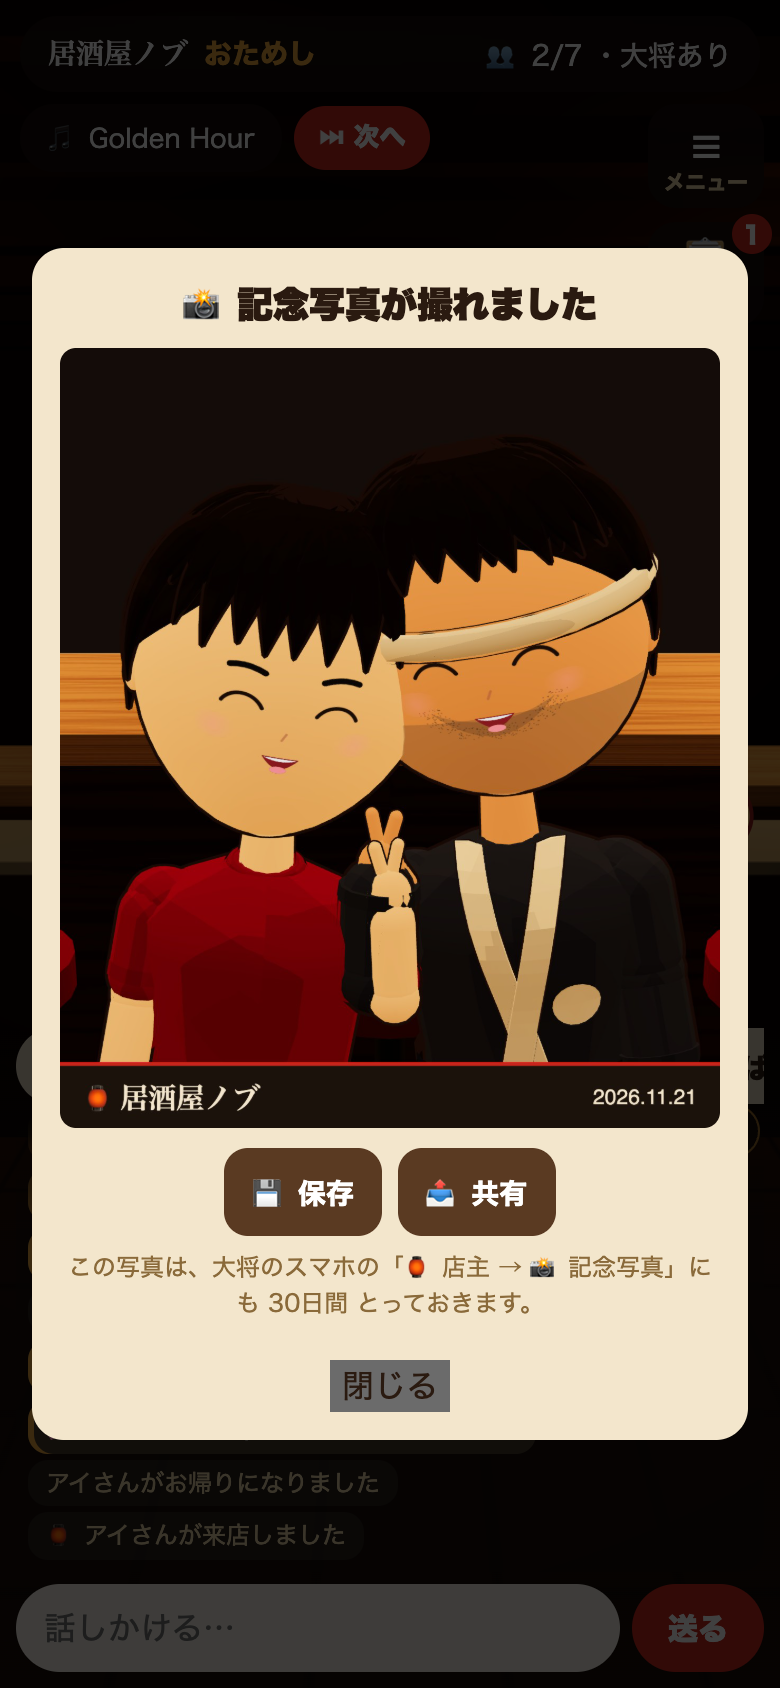
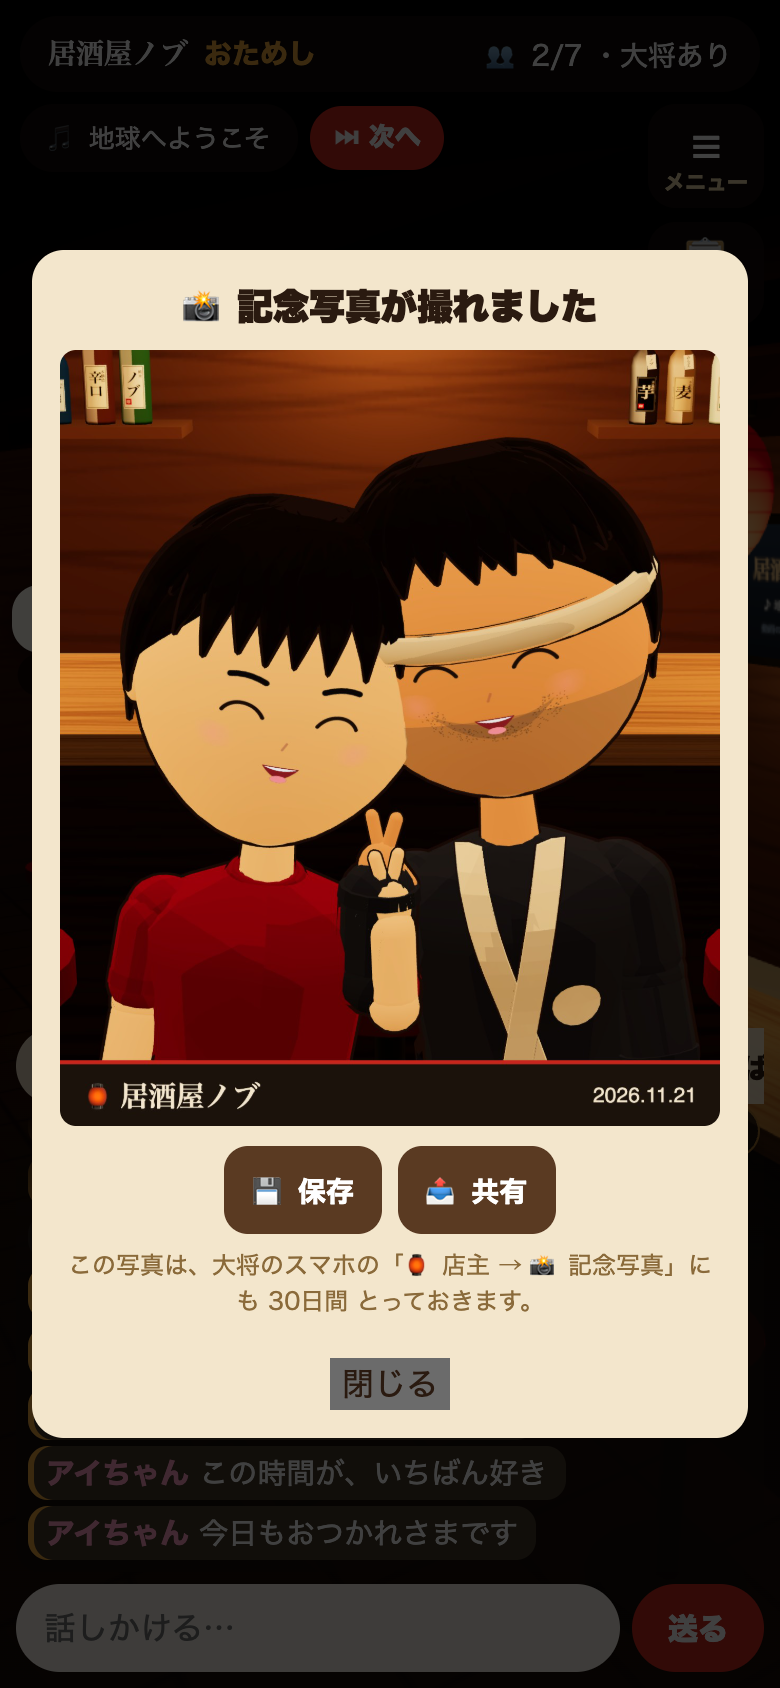
ミニゲーム: ななめ・速さばらばら・だんだんどしゃぶり・でっかい焦げ(−100)

diff --git a/js/game.js b/js/game.js
@@ -4,6 +4,8 @@
      ・白いお皿にのった物 … プラス(+5〜10)。たくさんの種類
      ・赤い丸の 黒く焦げた物 … マイナス(−20)。後半ほど たくさん落ちてくる。よけるのが本番
      ・金色の星 … 大当たり(+50)。1回に4つだけ。少し速い
+     ・でっかい焦げ … −100。1回に3つ。出る前に 上に赤い「!」
+   11-21 夜 2回目: まっすぐ・右ななめ上・左ななめ上から。1つずつ速さがちがう。はじめ少なめ → だんだん どしゃぶり。
    焦げを取らずに 続けて受け止めると、おまけ(+1〜+9)がつく。焦げを取ると おまけは0から。
    ノブさん「マイナスとプラスを ちゃんと見分けられるように」→ 色だけでなく 形でも分ける(丸い皿 / 赤い輪と「−」の札とけむり / 星)。
    軽くするため 3D は使わず、平らな絵(canvas 2D)だけ。絵は先に1回だけ描いて使い回す。
@@ -35,33 +37,47 @@
     { id: 'b_fish', e: '🐟', type: 'bad', pt: -20, w: 8, name: '焦げた魚' },
     { id: 'b_meat', e: '🥩', type: 'bad', pt: -20, w: 8, name: '焦げた肉' },
     { id: 'b_ika', e: '🦑', type: 'bad', pt: -20, w: 7, name: '焦げたイカ' },
+    { id: 'b_huge', e: '🍖', type: 'bad', pt: -100, w: 0, big: 1, name: '巨大な焦げ肉' },   // たまにだけ出る でっかい焦げ(−100)
     { id: 'g_beer', e: '🍺', type: 'gold', pt: 50, w: 1, name: '金のジョッキ' },
     { id: 'g_ebi', e: '🦞', type: 'gold', pt: 50, w: 1, name: '金の伊勢えび' }
   ];
-  var BY = { good: [], bad: [], gold: [] };
-  KINDS.forEach(function (k, i) { BY[k.type].push(i); });
-  var TRAY_Y = 0.84, TRAY_W = 0.27, GOLD_N = 4;
+  var BY = { good: [], bad: [], gold: [] }, HUGE_I = KINDS.findIndex(function (k) { return k.big; });
+  KINDS.forEach(function (k, i) { if (k.w) BY[k.type].push(i); });
+  var TRAY_Y = 0.84, TRAY_W = 0.27, GOLD_N = 4, BIG = 2.6;   // BIG: 巨大な焦げの大きさ(ふつうの何倍)
 
   function hash(str) { var h = 2166136261; for (var i = 0; i < str.length; i++) { h ^= str.charCodeAt(i); h = Math.imul(h, 16777619); } return h >>> 0; }
   function rng(seed) { var s = seed >>> 0 || 1; return function () { s ^= s << 13; s >>>= 0; s ^= s >>> 17; s ^= s << 5; s >>>= 0; return s / 4294967296; }; }
   function pickIn(r, list) { var tot = 0, i; for (i = 0; i < list.length; i++) tot += KINDS[list[i]].w; var p = r() * tot; for (i = 0; i < list.length; i++) { p -= KINDS[list[i]].w; if (p < 0) return list[i]; } return list[0]; }
-  /* 落ちてくる物の並び(seed が同じなら いつも同じ) */
+  /* 落ちてくる物の並び(seed が同じなら いつも同じ)
+     ノブさん 11-21 夜「簡単すぎる。右ななめ上・左ななめ上からも、まっすぐも。1つずつ速さを変えて。たくさん。異常な感じ」
+     「はじめは少なめで、だんだん すごく いっぱい出てくる。たまに ものすごく でっかい 当たっちゃいけないやつ(すごいマイナス)」
+     x … お盆の高さに来たときの横の位置。sx … 出てくるときの横の位置(画面の外のこともある=ななめに飛んでくる) */
+  var HUGE = HUGE_I;
   function plan(seed) {
-    var r = rng(hash('jokki2:' + seed)), L = [], t = 0.6;
-    while (t < SEC - 1.3) {
-      var p = t / SEC, v = 0.3 + p * 0.32 + r() * 0.08;   // v: 1秒に 画面の高さの何倍 落ちるか(だんだん速く)
-      var badShare = 0.28 + p * 0.2;                     // 焦げの割合: はじめ3割 → 終わり5割
+    var r = rng(hash('jokki3:' + seed)), L = [], t = 0.7;
+    function one(t, p, k, dir, vmul) {
       var x = 0.08 + r() * 0.84;
-      L.push({ t: t, x: x, k: pickIn(r, r() < badShare ? BY.bad : BY.good), v: v });
-      if (p > 0.45 && r() < 0.2) {   // 後半は ときどき 焦げが2つ同時に(はなれた所に)
-        var x2 = x + (r() < 0.5 ? -1 : 1) * (0.3 + r() * 0.25); if (x2 < 0.08 || x2 > 0.92) x2 = x2 < 0.08 ? x2 + 0.84 * 0.6 : x2 - 0.84 * 0.6;
-        L.push({ t: t + 0.05, x: Math.max(0.08, Math.min(0.92, x2)), k: pickIn(r, BY.bad), v: v * (0.9 + r() * 0.2) });
-      }
-      t += 0.44 - p * 0.16 + r() * 0.12;
+      var v = (0.3 + p * 0.3) * (0.6 + r() * 0.95) * (vmul || 1);   // 1つずつ速さがちがう(遅いのも 速いのも)
+      if (dir == null) { var q = r(), side = 0.25 + p * 0.3; dir = q < side ? -1 : q < side * 2 ? 1 : 0; }   // 後半ほど ななめが多い
+      var sx = x;
+      if (dir) sx = Math.max(-0.3, Math.min(1.3, x - dir * (0.4 + r() * 0.6)));   // dir=1: 右上から左下へ / -1: 左上から右下へ
+      L.push({ t: t, x: x, sx: sx, k: k, v: v });
     }
-    for (var g = 0; g < GOLD_N; g++) {   // 大当たりは 4つ(だいたい 6・13・20・26秒ごろ)。少し速い
+    while (t < SEC - 1.2) {
+      var p = t / SEC, badShare = 0.26 + p * 0.2;   // 焦げの割合: はじめ3割 → 終わり5割弱
+      one(t, p, pickIn(r, r() < badShare ? BY.bad : BY.good));
+      t += 0.62 - p * 0.44 + r() * 0.1;   // はじめは ゆったり(0.6秒に1つ) → 終わりは どしゃぶり(0.2秒に1つ)
+    }
+    // どしゃぶり: 中ごろと後半に、同じ向きから 一気に 6〜9こ
+    [11 + r() * 3, 19 + r() * 3, 25 + r() * 2].forEach(function (bt, i) {
+      var dir = r() < 0.5 ? -1 : 1, n = 6 + i + Math.floor(r() * 2);
+      for (var j = 0; j < n; j++) one(bt + j * 0.09, bt / SEC, pickIn(r, r() < 0.45 ? BY.bad : BY.good), dir, 1.1);
+    });
+    // 巨大な焦げ(−100): 3回。ゆっくり大きく落ちてくる。よけられるように 少し遅め
+    [8 + r() * 3, 16 + r() * 3, 23 + r() * 3].forEach(function (ht) { one(ht, ht / SEC, HUGE, null, 0.75); });
+    for (var g = 0; g < GOLD_N; g++) {   // 大当たりは 4つ。少し速い
       var gt = 4.5 + g * 7 + r() * 2.5;
-      L.push({ t: gt, x: 0.12 + r() * 0.76, k: pickIn(r, BY.gold), v: (0.3 + gt / SEC * 0.32) * 1.3 });
+      one(gt, gt / SEC, pickIn(r, BY.gold), null, 1.3);
     }
     L.sort(function (a, b) { return a.t - b.t; });
     return L;
@@ -142,9 +158,15 @@
       [[-0.18, 0.1], [0.12, -0.14], [0.2, 0.16], [-0.05, -0.02]].forEach(function (d) { circle(tx, cx + d[0] * size, cy + d[1] * size, size * 0.035); tx.fill(); });
       x.drawImage(t, 0, 0);
       circle(x, cx, cy, R); x.lineWidth = size * 0.1; x.strokeStyle = '#ff3b2f'; x.stroke();
-      var bx = cx + R * 0.74, by = cy + R * 0.7, br = size * 0.2;   // 「−」の札(右下)
-      circle(x, bx, by, br); x.fillStyle = '#ff3b2f'; x.fill(); x.lineWidth = 2; x.strokeStyle = '#fff'; x.stroke();
-      x.fillStyle = '#fff'; x.fillRect(bx - br * 0.55, by - br * 0.14, br * 1.1, br * 0.28);
+      if (K.big) {   // 巨大な焦げ: 「−100」の札(下のまんなか)
+        var lw = size * 0.62, lh = size * 0.26, ly = cy + R * 0.62;
+        x.fillStyle = '#ff3b2f'; x.fillRect(cx - lw / 2, ly - lh / 2, lw, lh); x.lineWidth = Math.max(2, size * 0.02); x.strokeStyle = '#fff'; x.strokeRect(cx - lw / 2, ly - lh / 2, lw, lh);
+        x.fillStyle = '#fff'; x.font = 'bold ' + Math.round(lh * 0.8) + 'px sans-serif'; x.textAlign = 'center'; x.textBaseline = 'middle'; x.fillText('−100', cx, ly + lh * 0.04);
+      } else {
+        var bx = cx + R * 0.74, by = cy + R * 0.7, br = size * 0.2;   // 「−」の札(右下)
+        circle(x, bx, by, br); x.fillStyle = '#ff3b2f'; x.fill(); x.lineWidth = 2; x.strokeStyle = '#fff'; x.stroke();
+        x.fillStyle = '#fff'; x.fillRect(bx - br * 0.55, by - br * 0.14, br * 1.1, br * 0.28);
+      }
     }
     return (sprites[id] = c);
   }
@@ -172,16 +194,17 @@
       '<div class="izg-leg">' +
       '<div class="g">' + good + '<span><b>白いお皿</b> … 取る!<br>+5〜10点</span></div>' +
       '<div class="b">' + bad + '<span><b>赤い丸の焦げ</b> … よける!<br>−20点</span></div>' +
+      '<div class="b">' + icon(HUGE_I) + '<span><b>でっかい焦げ</b> … ぜったい よける!<br>−100点(「!」が出たら来る)</span></div>' +
       '<div class="o">' + gold + '<span><b>金色の星</b> … 大当たり!<br>+50点(4つだけ)</span></div>' +
       '</div>' +
-      '<p>指で お盆を左右に動かします。30秒。<br>焦げを取らずに続けると 点数がどんどんふえる!</p>' +
+      '<p>指で お盆を左右に動かします。30秒。<br>ななめからも飛んでくる! だんだん どしゃぶりに。<br>焦げを取らずに続けると 点数がどんどんふえる!</p>' +
       (opts.best ? '<p>今日の自分の最高: <b>' + opts.best + '点</b></p>' : ''),
       [['スタート', begin], ['やめる', close, 'izg-no']]);
   }
   function begin() {
     panel(null);
-    var items = plan(opts.seed).map(function (it) { return { t: it.t, x: it.x, k: it.k, v: it.v, y: -0.1, live: false, done: false }; });
-    st.items = items; st.t = 0; st.score = 0; st.streak = 0; st.fx = []; st.flash = 0; st.gflash = 0; st.shake = 0; st.phase = 'play'; st.last = performance.now();
+    var items = plan(opts.seed).map(function (it) { return { t: it.t, x: it.x, sx: it.sx, cx: it.sx, k: it.k, v: it.v, y: -0.1, live: false, done: false }; });
+    st.items = items; st.t = 0; st.score = 0; st.streak = 0; st.huge = 0; st.gold = 0; st.bad = 0; st.fx = []; st.flash = 0; st.gflash = 0; st.shake = 0; st.phase = 'play'; st.last = performance.now();
     if (opts.onStart) opts.onStart();
     loop();
   }
@@ -192,7 +215,7 @@
     try { msg = opts.onEnd ? opts.onEnd(score, !!aborted) || '' : ''; } catch (e) {}
     if (aborted) { close(); return; }
     panel('<h2>おしまい!</h2><div class="izg-big">' + score + '<small style="font-size:20px">点</small></div>' +
-      '<p>大当たり ' + st.gold + '/' + GOLD_N + ' ・ 焦げ ' + st.bad + '回</p>' + (msg ? '<p class="izg-res">' + msg + '</p>' : ''),
+      '<p>大当たり ' + st.gold + '/' + GOLD_N + ' ・ 焦げ ' + st.bad + '回' + (st.huge ? '(でっかい焦げ ' + st.huge + '回)' : '') + '</p>' + (msg ? '<p class="izg-res">' + msg + '</p>' : ''),
       [['もう一回', function () { opts.best = Math.max(opts.best || 0, score); begin(); }], ['お店にもどる', close, 'izg-no']]);
   }
 
@@ -206,21 +229,23 @@
       if (it.done) return;
       if (!it.live) { if (st.t >= it.t) it.live = true; else return; }
       var py = it.y; it.y += it.v * dt;
-      var r = size * (KINDS[it.k].type === 'bad' ? 0.3 : 0.42) / st.W;   // 焦げは 少し甘めに(かすったくらいは セーフ)
-      if (py < TRAY_Y && it.y >= TRAY_Y - 0.01 && Math.abs(it.x - tray) < half + r) {   // お盆に当たった
+      it.cx = it.sx + (it.x - it.sx) * (it.y + 0.1) / (TRAY_Y + 0.1);   // ななめに進む(お盆の高さで ちょうど x)
+      var KK = KINDS[it.k], r = size * (KK.big ? BIG * 0.36 : KK.type === 'bad' ? 0.3 : 0.42) / st.W;   // 焦げは 少し甘めに(かすったくらいは セーフ)
+      if (py < TRAY_Y && it.y >= TRAY_Y - 0.01 && Math.abs(it.cx - tray) < half + r) {   // お盆に当たった
         it.done = true; var K = KINDS[it.k];
         if (K.pt > 0) {
           st.streak++; var add = addPt(K, st.streak); st.score += add;
           if (K.type === 'gold') { st.gold++; st.gflash = 1; st.fx.push({ x: it.x, y: TRAY_Y - 0.06, s: '+' + add + ' 大当たり!', c: '#ffd23f', a: 1.4, big: 1 }); }
           else st.fx.push({ x: it.x, y: TRAY_Y - 0.04, s: '+' + add, c: '#ffe08a', a: 1 });
         } else {
-          st.bad++; st.streak = 0; st.score = Math.max(0, st.score + K.pt); st.flash = 1; st.shake = 1;
-          st.fx.push({ x: it.x, y: TRAY_Y - 0.05, s: String(K.pt).replace('-', '−'), c: '#ff5a4a', a: 1.2, big: 1 });
+          st.bad++; st.streak = 0; st.score = Math.max(0, st.score + K.pt); st.flash = K.big ? 2.2 : 1; st.shake = K.big ? 2.5 : 1;
+          if (K.big) st.huge++;
+          st.fx.push({ x: it.x, y: TRAY_Y - 0.05, s: String(K.pt).replace('-', '−') + (K.big ? ' うわぁ!' : ''), c: '#ff5a4a', a: K.big ? 1.8 : 1.2, big: K.big ? 2 : 1 });
         }
-      } else if (it.y > 1.05) it.done = true;   // 落としても 減らない(焦げは よけるもの)
+      } else if (it.y > 1.05 + (KK.big ? 0.15 : 0)) it.done = true;   // 落としても 減らない(焦げは よけるもの)
     });
     st.fx.forEach(function (f) { f.y -= dt * 0.12; f.a -= dt * 1.4; }); st.fx = st.fx.filter(function (f) { return f.a > 0; });
-    st.flash = Math.max(0, st.flash - dt * 3); st.gflash = Math.max(0, st.gflash - dt * 2.5); st.shake = Math.max(0, st.shake - dt * 5);
+    st.flash = Math.max(0, st.flash - dt * (st.flash > 1 ? 2 : 3)); st.gflash = Math.max(0, st.gflash - dt * 2.5); st.shake = Math.max(0, st.shake - dt * (st.shake > 1 ? 2.5 : 5));
     root.querySelector('#izgScore').textContent = st.score;
     root.querySelector('#izgTime').textContent = Math.max(0, Math.ceil(SEC - st.t));
     root.querySelector('.izg-combo').textContent = st.streak >= 3 ? '🔥 ' + st.streak + 'れんぞく' : '';
@@ -230,8 +255,8 @@
 
   function draw() {
     var W = st.W, H = st.H, size = st.size = Math.max(40, Math.min(W * 0.13, H * 0.1, 80));
-    var sx = st.shake ? Math.sin(st.t * 90) * 6 * st.shake : 0;
-    g.save(); g.translate(sx, 0);
+    var sx = st.shake ? Math.sin(st.t * 90) * 6 * st.shake : 0, sy = st.shake > 1 ? Math.cos(st.t * 70) * 5 * (st.shake - 1) : 0;
+    g.save(); g.translate(sx, sy);
     g.fillStyle = '#2a1c12'; g.fillRect(-10, 0, W + 20, H);
     // のれんの帯とカウンター(雰囲気だけ。軽く)
     g.fillStyle = '#3a2618'; g.fillRect(-10, 0, W + 20, H * 0.06);
@@ -239,12 +264,18 @@
     g.fillStyle = '#5a3418'; g.fillRect(-10, H * (TRAY_Y + 0.06), W + 20, 6);
     if (st.items) st.items.forEach(function (it) {
       if (!it.live || it.done) return;
-      var K = KINDS[it.k], x = it.x * W, y = it.y * H;
+      var K = KINDS[it.k], x = it.cx * W, y = it.y * H;
       if (K.type === 'gold') {   // 後ろの星を ゆっくり回して 目立たせる
         var rs = sprite(it.k, size, 'rays'), sc = 1 + Math.sin(st.t * 8) * 0.07;
         g.save(); g.translate(x, y); g.rotate(st.t * 1.6); g.scale(sc, sc); g.drawImage(rs, -rs.width / 2, -rs.height / 2); g.restore();
       } else if (K.type === 'bad') x += Math.sin(st.t * 14 + it.t * 7) * 2;   // 焦げは ぷるぷる
-      var sp = sprite(it.k, size); g.drawImage(sp, x - sp.width / 2, y - sp.height / 2);
+      var sp = sprite(it.k, K.big ? Math.round(size * BIG) : size); g.drawImage(sp, x - sp.width / 2, y - sp.height / 2);
+    });
+    if (st.items) st.items.forEach(function (it) {   // 巨大な焦げの予告: 出てくる 1秒前から 上に赤い「!」
+      if (it.live || it.done || !KINDS[it.k].big || it.t - st.t > 1) return;
+      var ax = Math.max(0.06, Math.min(0.94, it.sx)) * W, on = Math.floor(st.t * 8) % 2;
+      g.fillStyle = on ? '#ff3b2f' : '#ffdd55'; g.font = 'bold 44px sans-serif'; g.textAlign = 'center'; g.textBaseline = 'top';
+      g.fillText('!', ax, H * 0.065); g.textBaseline = 'alphabetic';
     });
     // お盆
     var tx = st.trayX * W, tw = TRAY_W * W, ty = TRAY_Y * H;
@@ -252,12 +283,12 @@
     g.fillStyle = '#d99a58'; g.beginPath(); g.ellipse(tx, ty + 2, tw / 2 - 4, 9, 0, 0, Math.PI * 2); g.fill();
     g.textAlign = 'center';
     st.fx && st.fx.forEach(function (f) {
-      g.globalAlpha = Math.max(0, Math.min(1, f.a)); g.font = 'bold ' + (f.big ? 30 : 22) + 'px sans-serif';
+      g.globalAlpha = Math.max(0, Math.min(1, f.a)); g.font = 'bold ' + (f.big === 2 ? 42 : f.big ? 30 : 22) + 'px sans-serif';
       if (f.big) { g.lineWidth = 4; g.strokeStyle = 'rgba(0,0,0,.6)'; g.strokeText(f.s, Math.max(70, Math.min(W - 70, f.x * W)), f.y * H); }
       g.fillStyle = f.c; g.fillText(f.s, Math.max(70, Math.min(W - 70, f.x * W)), f.y * H); g.globalAlpha = 1;
     });
     g.restore();
-    if (st.flash > 0) { g.fillStyle = 'rgba(220,40,30,' + (st.flash * 0.3) + ')'; g.fillRect(0, 0, W, H); }
+    if (st.flash > 0) { g.fillStyle = 'rgba(220,40,30,' + (Math.min(1, st.flash) * 0.3 + Math.max(0, st.flash - 1) * 0.2) + ')'; g.fillRect(0, 0, W, H); }
     if (st.gflash > 0) { g.fillStyle = 'rgba(255,215,60,' + (st.gflash * 0.3) + ')'; g.fillRect(0, 0, W, H); }
   }
 

diff --git a/sw.js b/sw.js
@@ -1,7 +1,7 @@
 'use strict';
 /* ホーム画面に入れたあと、すぐ開けるようにする(お店の中身は毎回ネットで最新を取りにいく)。
    FILES(覚えるファイル)を変えたときだけ VERSION を 1つ上げる。 */
-const VERSION = 'izakaya-v48';
+const VERSION = 'izakaya-v49';
 const FILES = ['./', 'index.html', 'install.js', 'manifest.webmanifest', 'icon-192.png', 'icon-512.png', 'maskable-512.png', 'apple-touch-icon.png',
   'css/style.css', 'js/config.js', 'js/avatar-data.js', 'js/net.js', 'js/scene3d.js', 'js/game.js', 'js/app.js',
   'vendor/three/build/three.module.js', 'vendor/three/build/three.core.js', 'owner.html', 'owner/', 'owner/index.html', 'owner/rec.html', 'owner/manifest.webmanifest', 'owner/icon-192.png', 'owner/apple-touch-icon.png', 'shots/1.jpg', 'shots/2.jpg', 'shots/3.jpg'];
